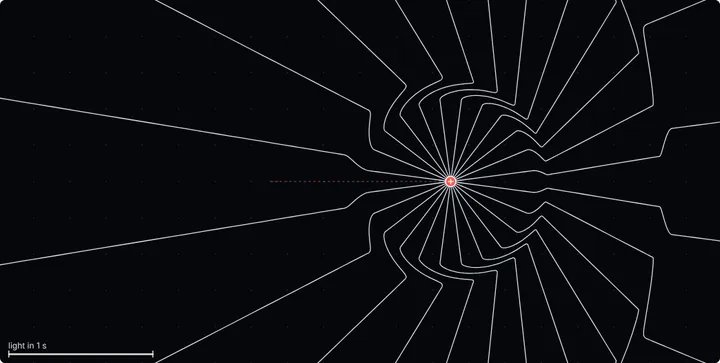
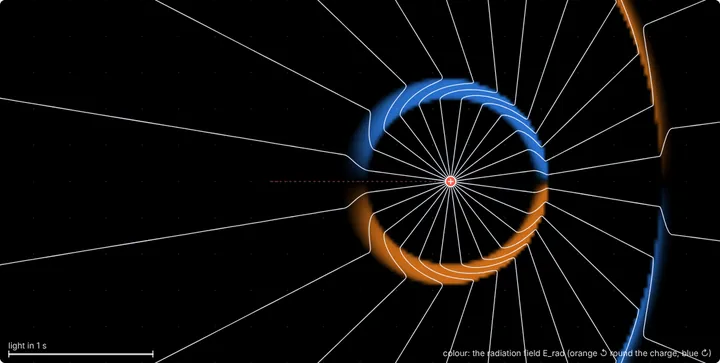
Radiation: experiment 1's Set it up shows the ring of orange and blue its text describes
The opening state colours the radiation field, but go() turns the map off unless asked, so
Set it up for "Start and stop" lost the shells the text tells the student to watch.  Found by
the agent making the experiment pictures; the picture is remade.

Claude-Session: https://claude.ai/code/session_01Uf588EmEoW67UxQKckEGyR

Changed region(s): [[0.4889, 0.2121, 0.7639, 0.7879], [0.6111, 0.5758, 0.9778, 1.0], [0.8556, 0.0, 0.9472, 0.4545]]

diff --git a/radiation/app.js b/radiation/app.js
@@ -831,7 +831,7 @@ function go(id, { params = {}, c = 8, lines = 'total', count = 24, map = 'off', 
 }
 
 const setups = {
-  kink: () => go('shuttle'),                                   // the opening set-up
+  kink: () => go('shuttle', { map: 'field' }),                 // the opening set-up, with its colours
   stop: () => go('stop', { params: { beta: 0.6, tau: 0.15 } }),   // one stop at a time (what "kink" was)
   coulomb: () => go('rest'),
   inside: () => go('stop', { params: { beta: 0.8, tau: 0.1 }, probe: [-3, 7] }),
